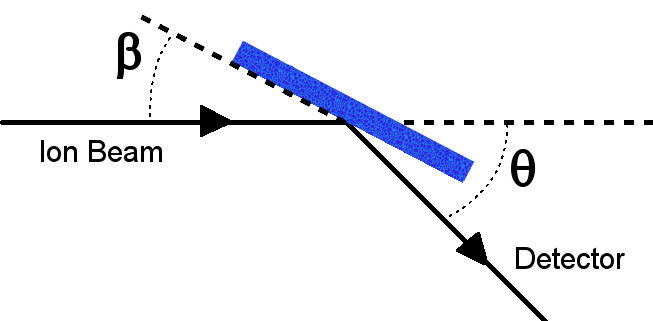
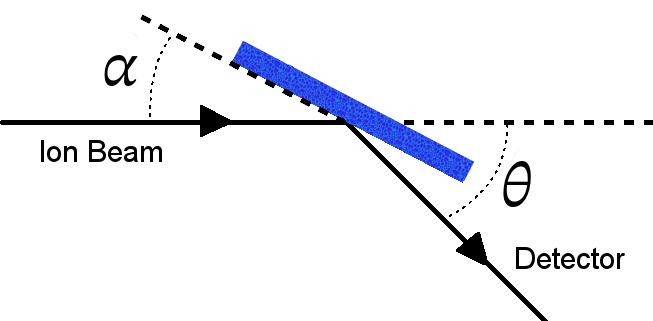
Remove unused spinboxes from measurement settings. Change symbols of angles (in UI).

Changed region(s): [[0.7657, 0.4673, 0.827, 0.6542], [0.1531, 0.0935, 0.2144, 0.2804]]

diff --git a/widgets/measurement/settings.py b/widgets/measurement/settings.py
@@ -114,9 +114,6 @@ class MeasurementSettingsWidget(QtWidgets.QWidget,
     beam_profile = bnd.bind("profileComboBox", track_change=True)
 
     run_fluence = bnd.bind("fluenceDoubleSpinBox")
-    run_current = bnd.bind("currentDoubleSpinBox")
-    run_time = bnd.bind("timeDoubleSpinBox")
-    run_charge = bnd.bind("runChargeDoubleSpinBox")
 
     target_theta = bnd.bind("targetThetaDoubleSpinBox", track_change=True)
     detector_theta = bnd.bind("detectorThetaDoubleSpinBox", track_change=True)
@@ -146,9 +143,6 @@ class MeasurementSettingsWidget(QtWidgets.QWidget,
         self.spotSizeXdoubleSpinBox.setLocale(locale)
         self.spotSizeYdoubleSpinBox.setLocale(locale)
         self.divergenceDoubleSpinBox.setLocale(locale)
-        self.currentDoubleSpinBox.setLocale(locale)
-        self.timeDoubleSpinBox.setLocale(locale)
-        self.runChargeDoubleSpinBox.setLocale(locale)
 
         self.targetThetaDoubleSpinBox.setLocale(locale)
         self.detectorThetaDoubleSpinBox.setLocale(locale)
@@ -180,6 +174,7 @@ class MeasurementSettingsWidget(QtWidgets.QWidget,
 
         self.run_form_layout: QtWidgets.QFormLayout
         self.run_form_layout.insertRow(3, "Fluence", self.fluenceDoubleSpinBox)
+        self.fluenceDoubleSpinBox.setMinimumSize(100, 0)
         self.fluenceDoubleSpinBox.setContextMenuPolicy(
             Qt.ActionsContextMenu)
         self.actionMultiply = QtWidgets.QAction(self.fluenceDoubleSpinBox)
@@ -352,12 +347,6 @@ class MeasurementSettingsWidget(QtWidgets.QWidget,
                 self.measurement_setting_file_description:
             return True
         if self.obj.run.beam.charge != self.beam_charge:
-            return True
-        if self.obj.run.current != self.run_current:
-            return True
-        if self.obj.run.time != self.run_time:
-            return True
-        if self.obj.run.charge != self.run_charge:
             return True
         if self.obj.run.fluence != self.run_fluence:
             return True
